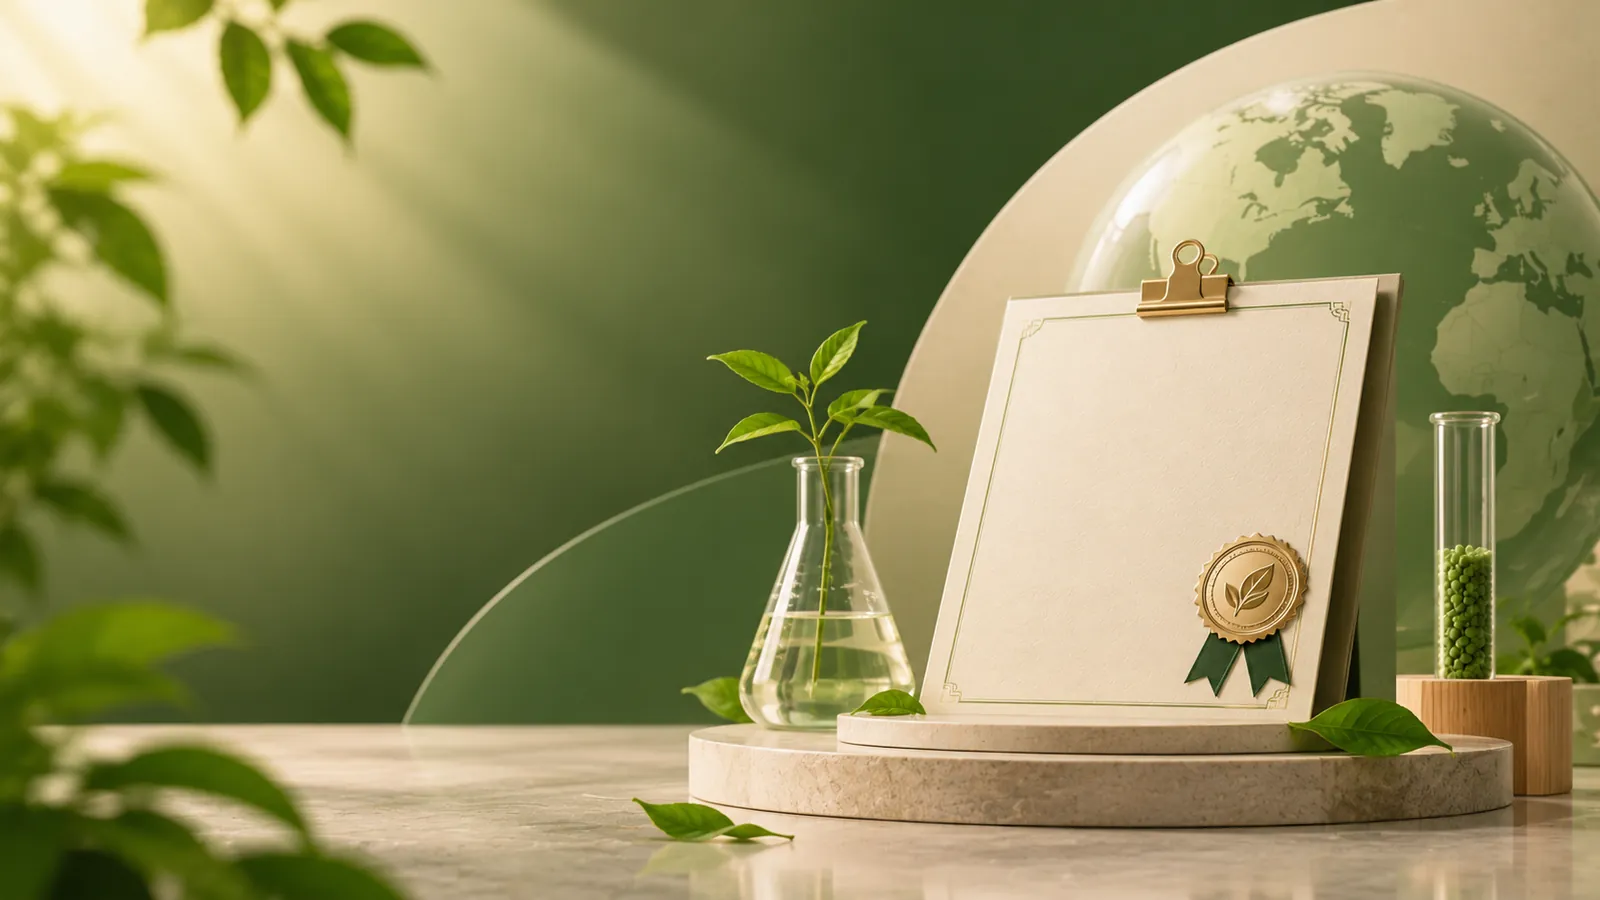
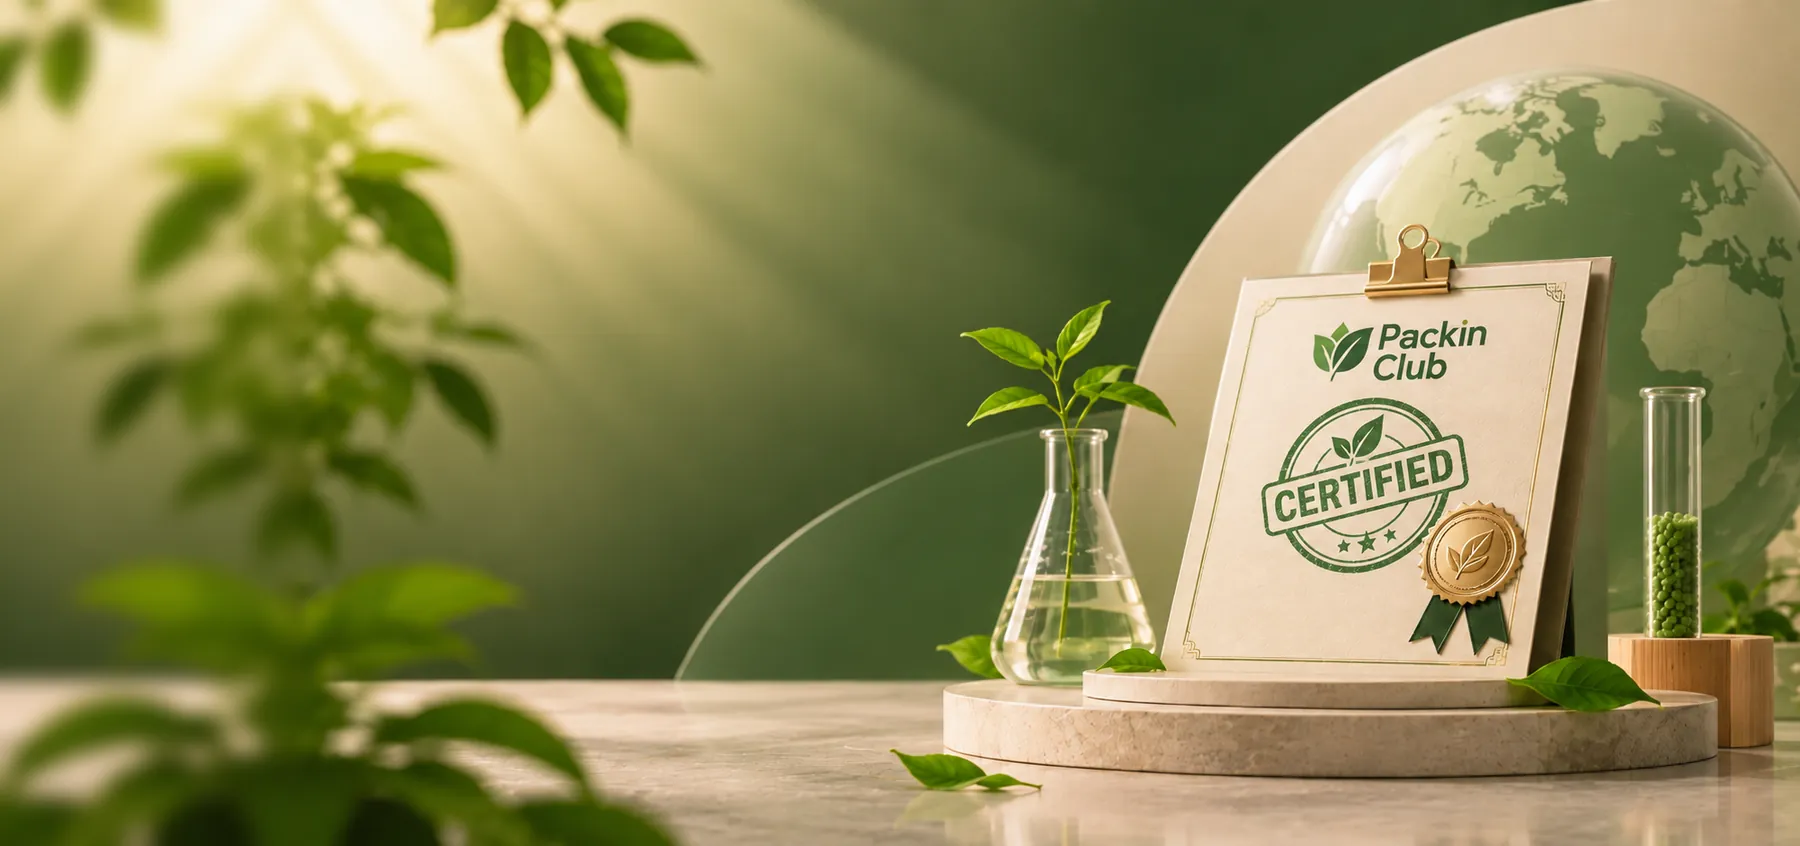
certification section added

diff --git a/certifications.html b/certifications.html
@@ -74,9 +74,13 @@
 .pc-burger.pc-active .pc-burger-bar:nth-child(1) { transform: translateY(7px) rotate(45deg); }
 .pc-burger.pc-active .pc-burger-bar:nth-child(2) { opacity: 0; }
 .pc-burger.pc-active .pc-burger-bar:nth-child(3) { transform: translateY(-7px) rotate(-45deg); }
-  .cert-hero { background-color:#14342C; background-image:linear-gradient(100deg, rgba(11,28,24,.93) 0%, rgba(11,28,24,.82) 30%, rgba(11,28,24,.42) 56%, rgba(11,28,24,.10) 78%, rgba(11,28,24,.04) 100%), url('assets/hero-certifications-desktop.webp'); background-size:cover; background-position:center; background-repeat:no-repeat; min-height:clamp(500px,52vw,660px); display:flex; align-items:center; }
+  .cert-hero { background-color:#14342C; background-image:linear-gradient(100deg, rgba(11,28,24,.94) 0%, rgba(11,28,24,.84) 26%, rgba(11,28,24,.46) 46%, rgba(11,28,24,.08) 60%, rgba(11,28,24,0) 100%), url('assets/hero-certifications-desktop.webp'); background-size:cover; background-position:left center; background-repeat:no-repeat; min-height:clamp(500px,52vw,660px); display:flex; align-items:center; }
   .cert-hero > div { width:100%; }
-  @media (max-width: 780px) { .cert-hero { background-image:linear-gradient(180deg, rgba(11,28,24,.50) 0%, rgba(11,28,24,.86) 55%, rgba(11,28,24,.97) 100%), url('assets/hero-certifications-mobile.webp'); background-position:center top; min-height:0; } }
+  /* Phones and tablets: certificate image on top, text below on the dark green */
+  @media (max-width: 860px) {
+    .cert-hero { background-image:none; display:block; min-height:0; padding-top:clamp(300px,82vw,500px) !important; }
+    .cert-hero::before { content:''; position:absolute; top:0; left:0; right:0; height:clamp(300px,82vw,520px); background:linear-gradient(180deg, rgba(20,52,44,0) 0%, rgba(20,52,44,0) 80%, #14342C 100%), url('assets/hero-certifications-mobile.webp') 62% 30% / cover no-repeat; }
+  }
   .hero-chip { font-family:Inter,sans-serif; font-size:12.5px; font-weight:500; color:#F7F4EC; text-decoration:none; border:1px solid #ffffff40; background:#ffffff0f; backdrop-filter:blur(8px); -webkit-backdrop-filter:blur(8px); border-radius:999px; padding:7px 14px; transition:background .2s ease, border-color .2s ease; }
   .hero-chip:hover { background:#6FAF45; border-color:#6FAF45; color:#14342C; }
   html { scroll-behavior: smooth; }
